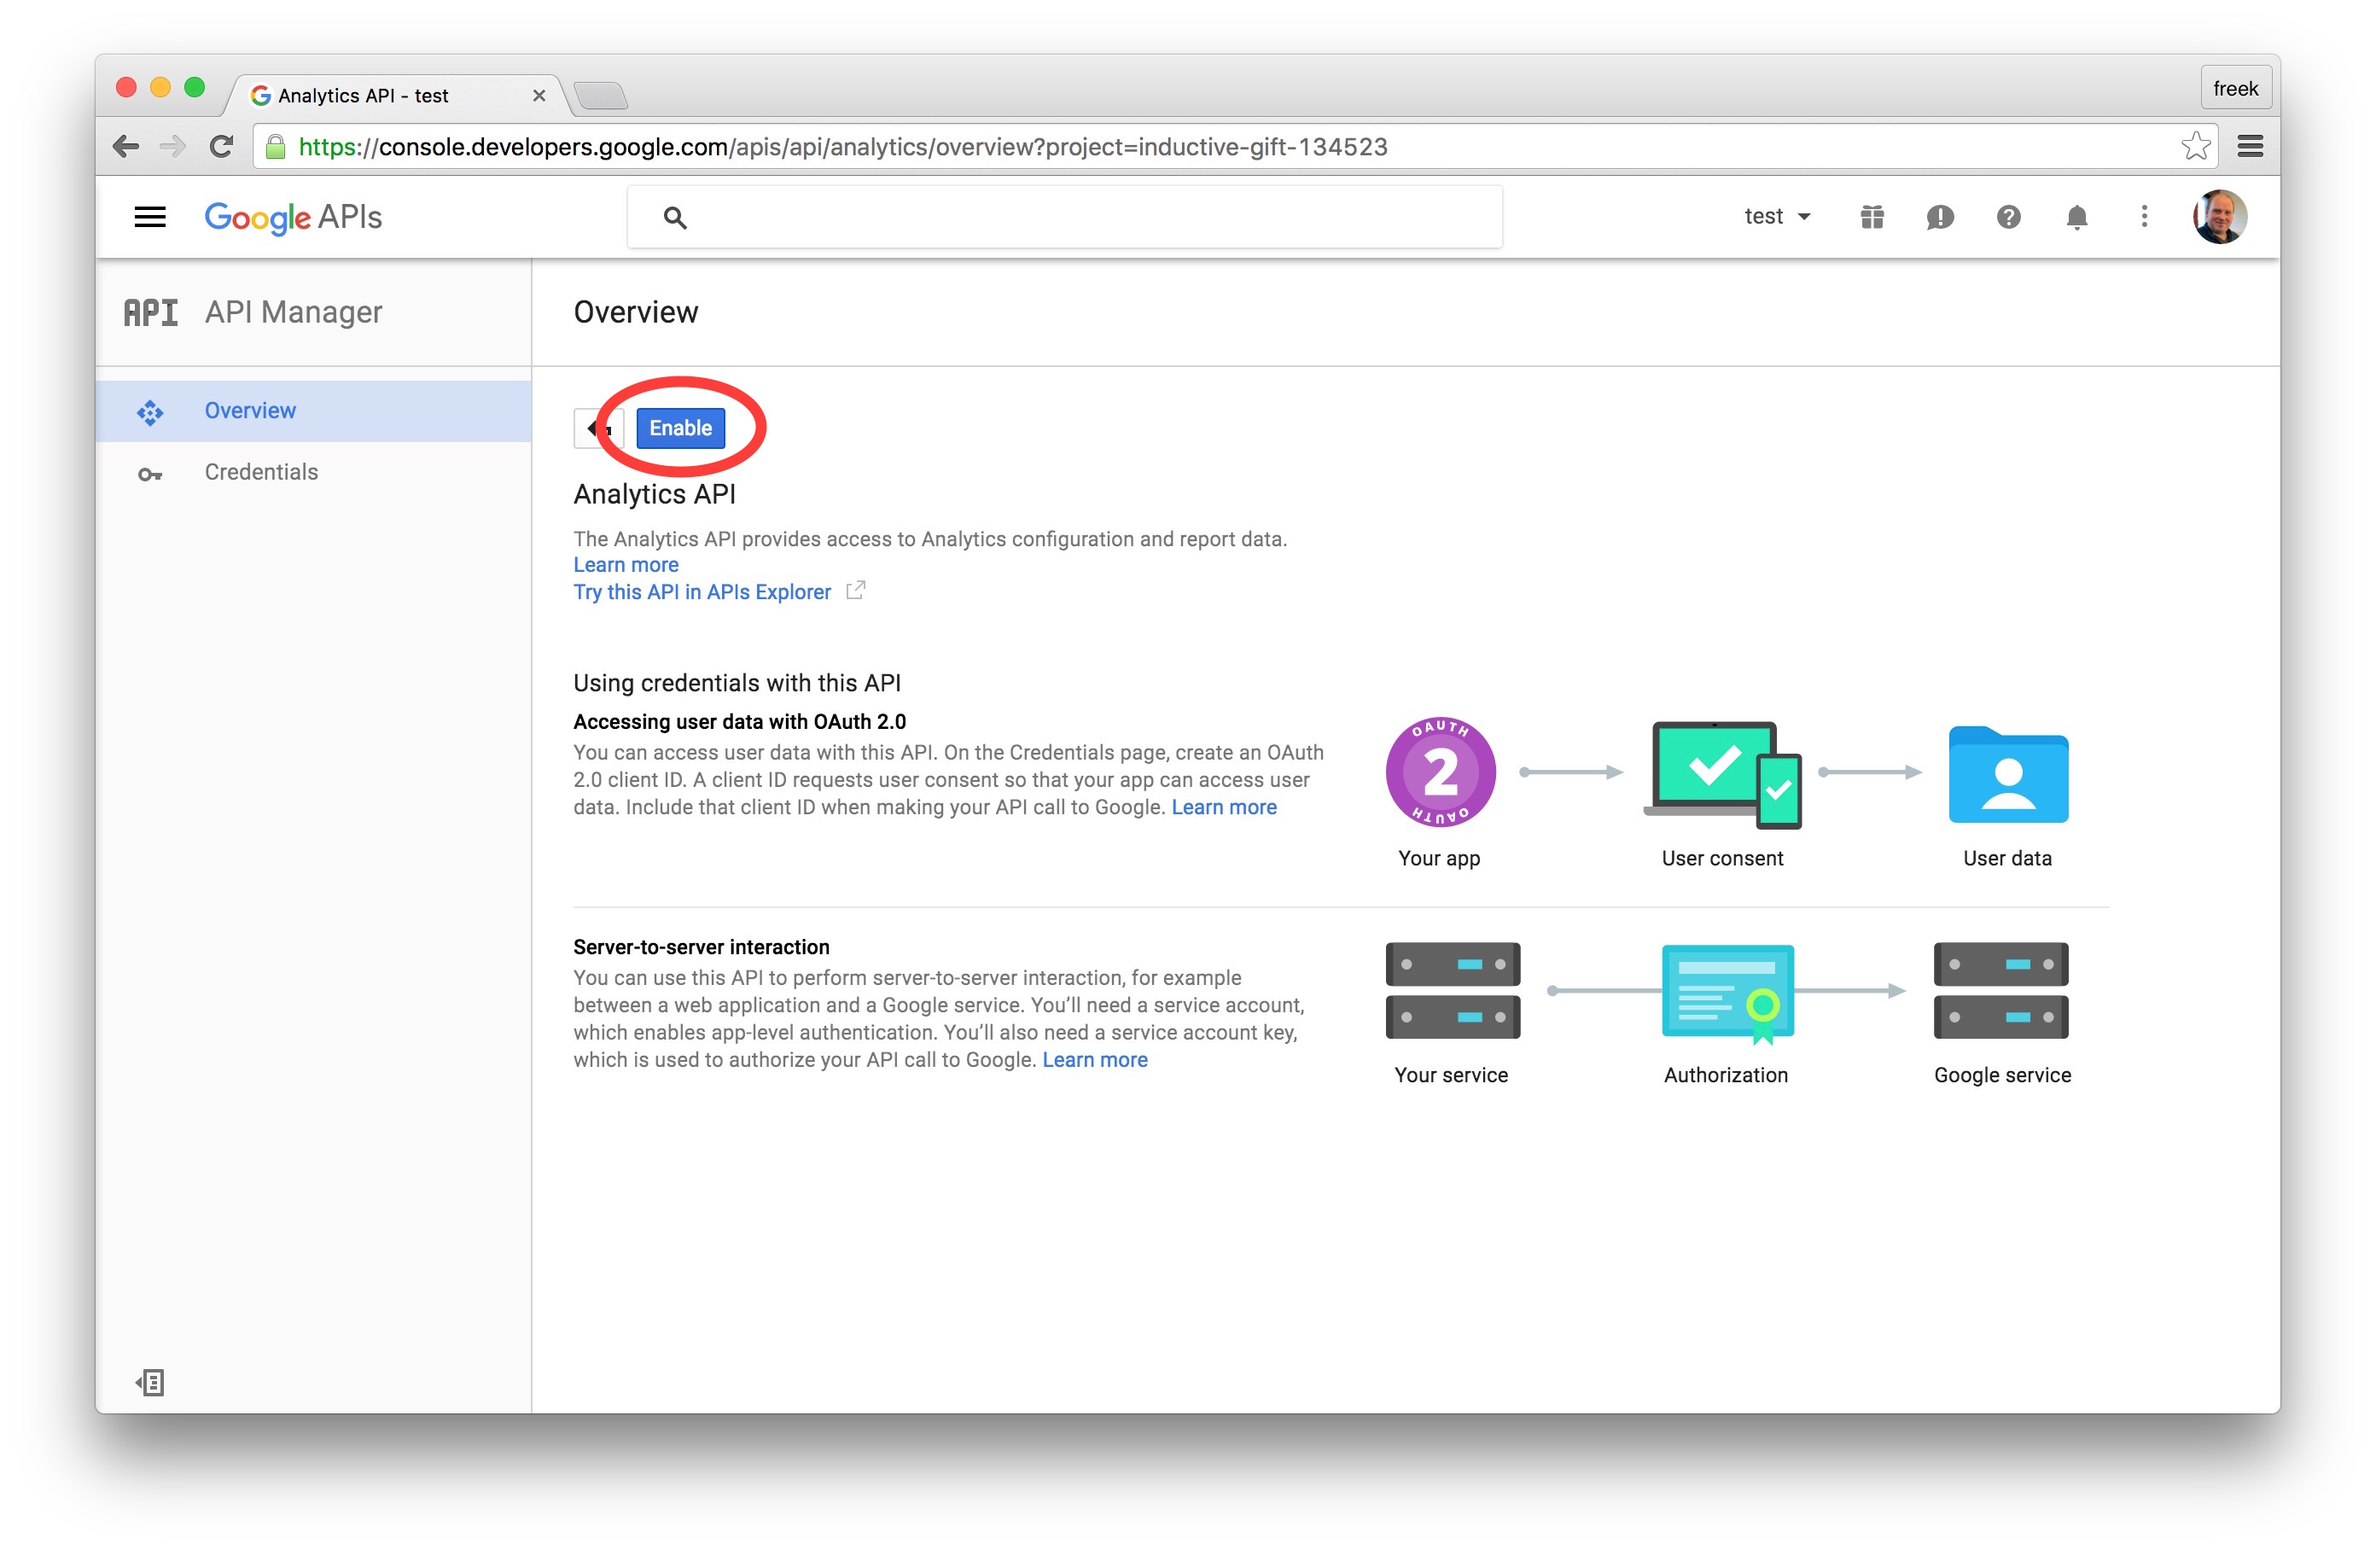
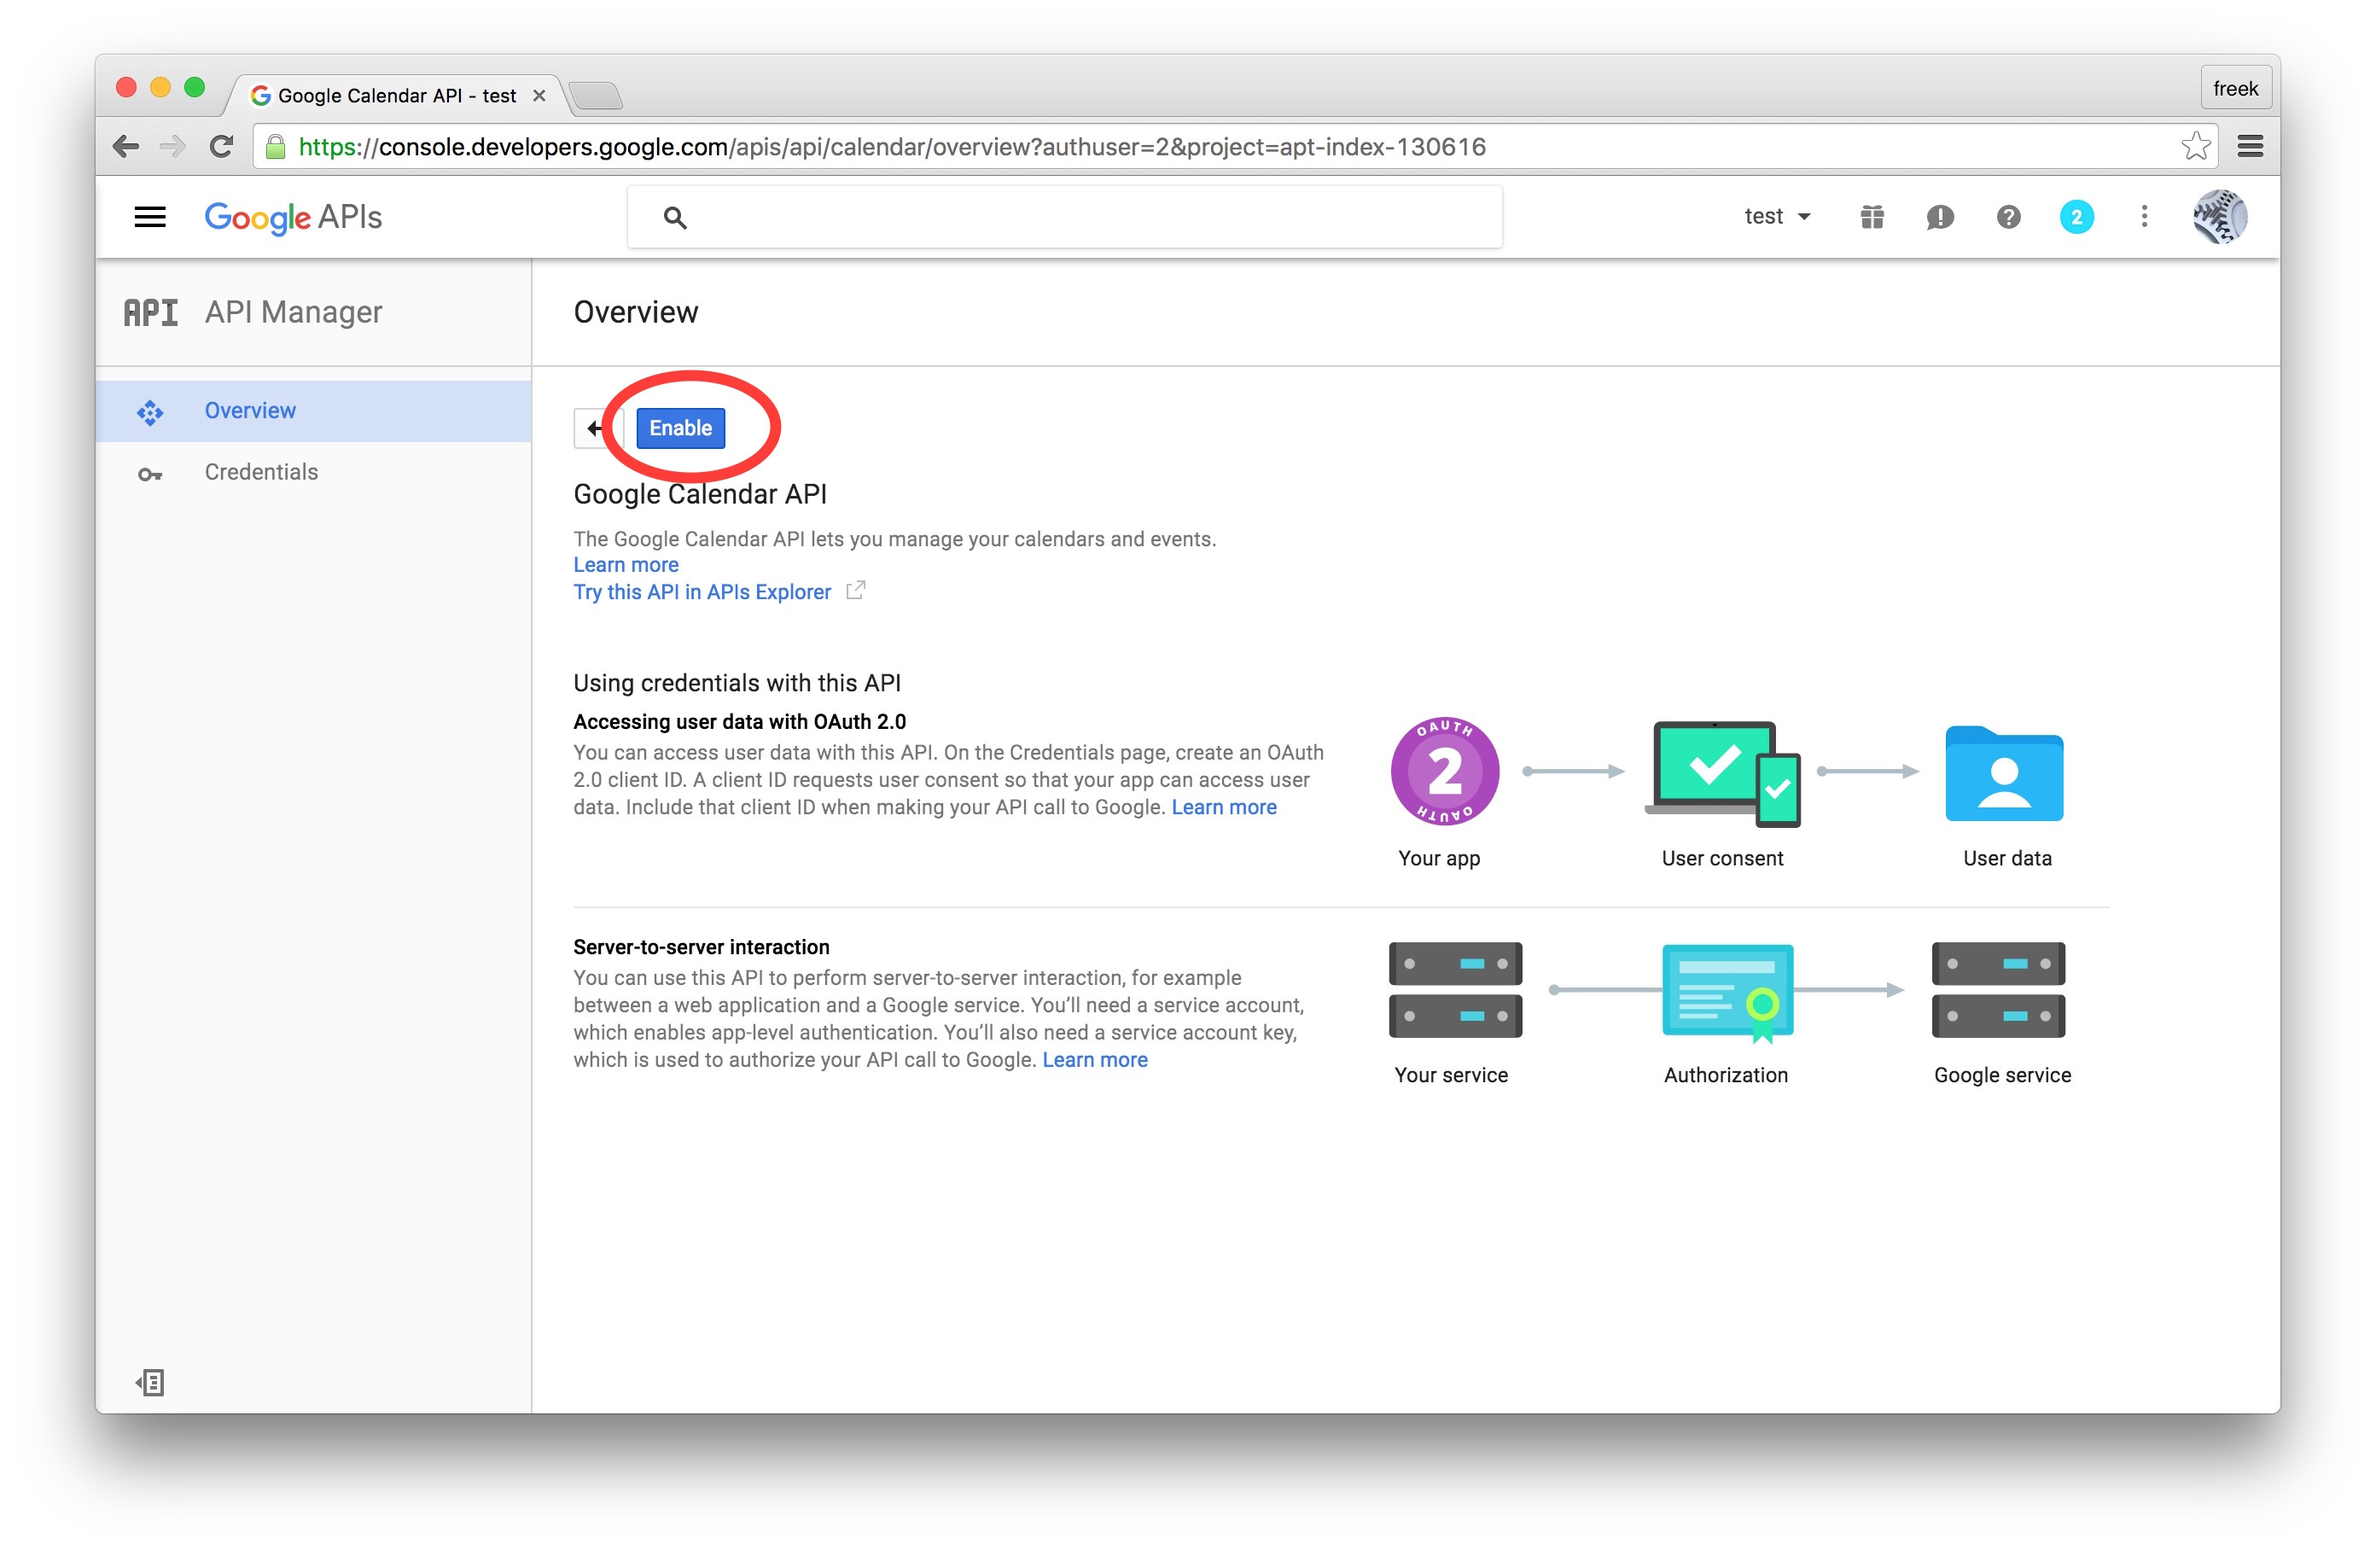
fix typo - "analytics" -> "maps" (#96)

diff --git a/README.md b/README.md
@@ -101,11 +101,11 @@ The first thing you’ll need to do is to get some credentials to use Google API
 
 ![1](https://spatie.github.io/laravel-google-calendar/v2/1.jpg)
 
-Next up we must specify which API’s the project may consume. In the list of available API’s click "Google Analytics API". On the next screen click "Enable".
+Next up we must specify which API's the project may consume. In the list of available API's click "Google Calendar API". On the next screen click "Enable".
 
 ![2](https://spatie.github.io/laravel-google-calendar/v2/2.jpg)
 
-Now that you’ve created a project that has access to the Analytics API it’s time to download a file with these credentials. Click "Credentials" in the sidebar. You’ll want to create a "Service account key".
+Now that you've created a project that has access to the Calendar API it's time to download a file with these credentials. Click "Credentials" in the sidebar. You'll want to create a "Service account key".
 
 ![3](https://spatie.github.io/laravel-google-calendar/v2/3.jpg)
 
